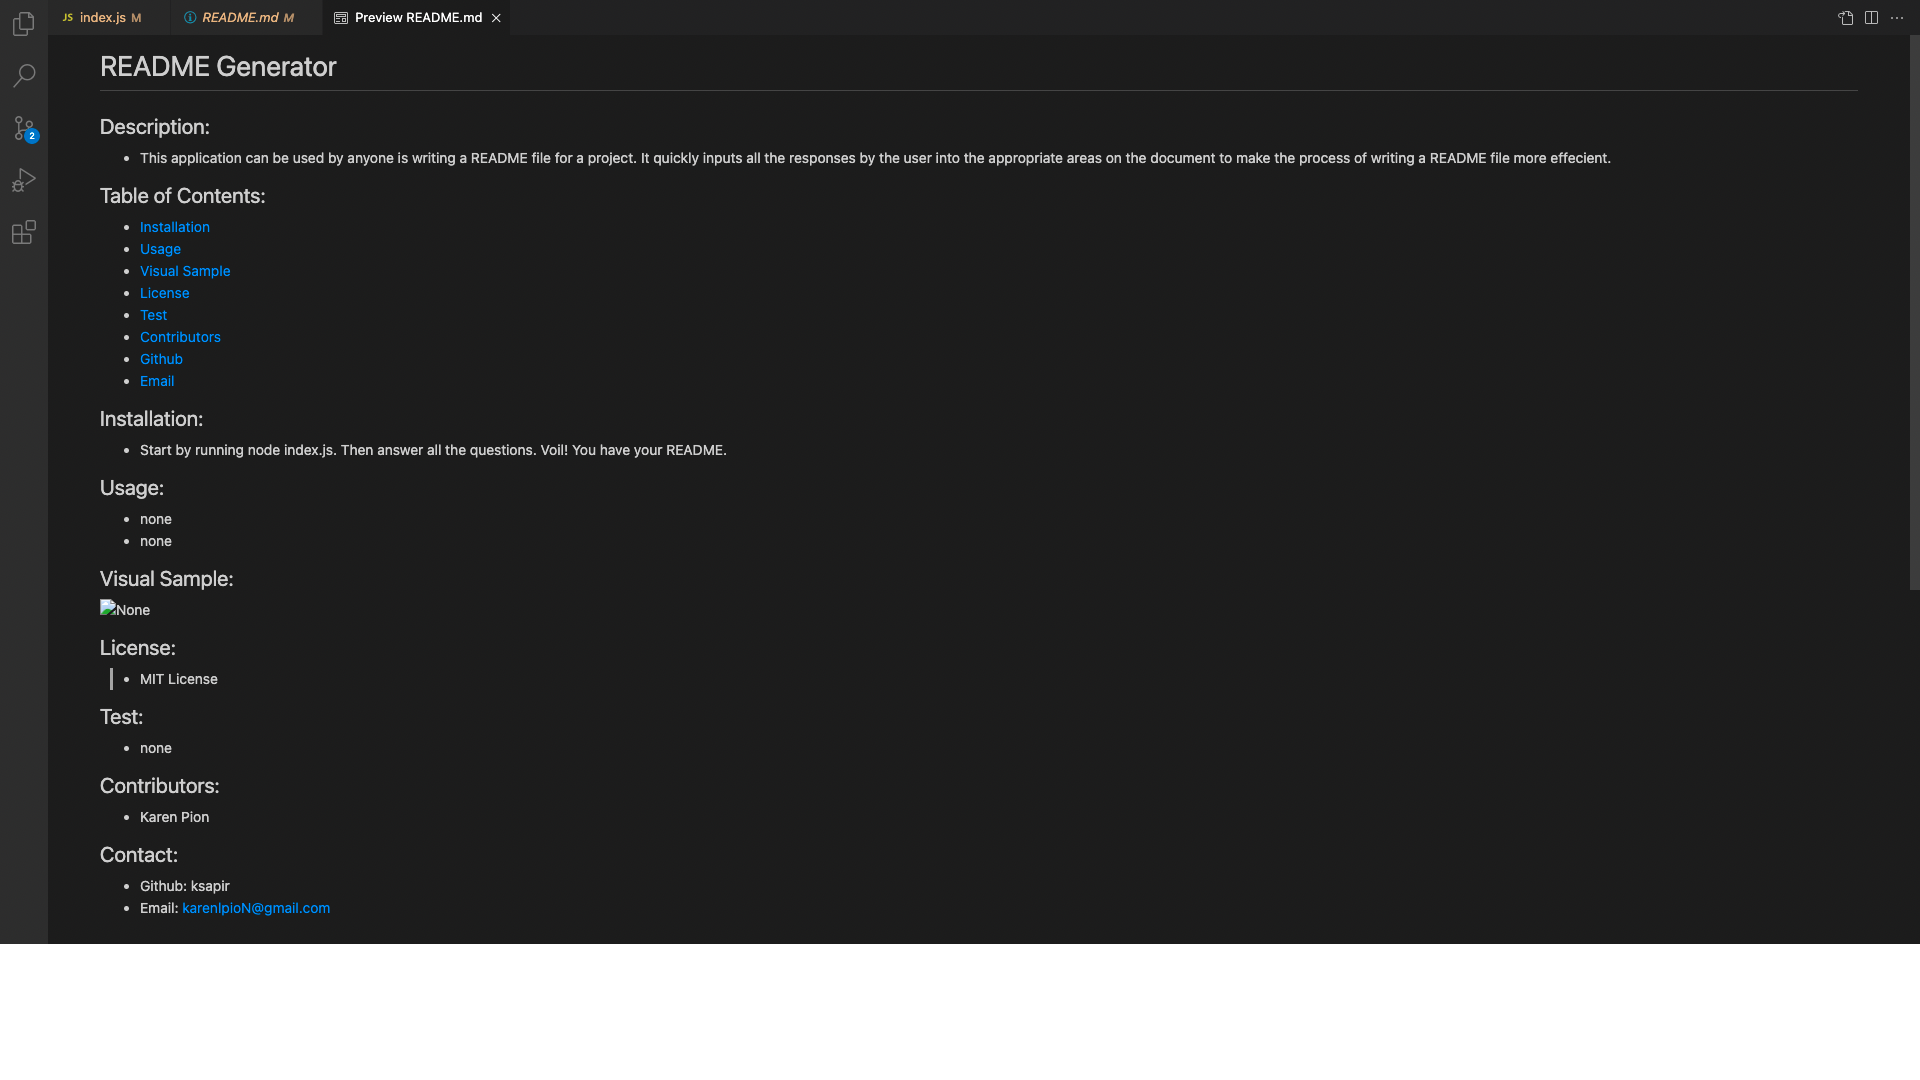
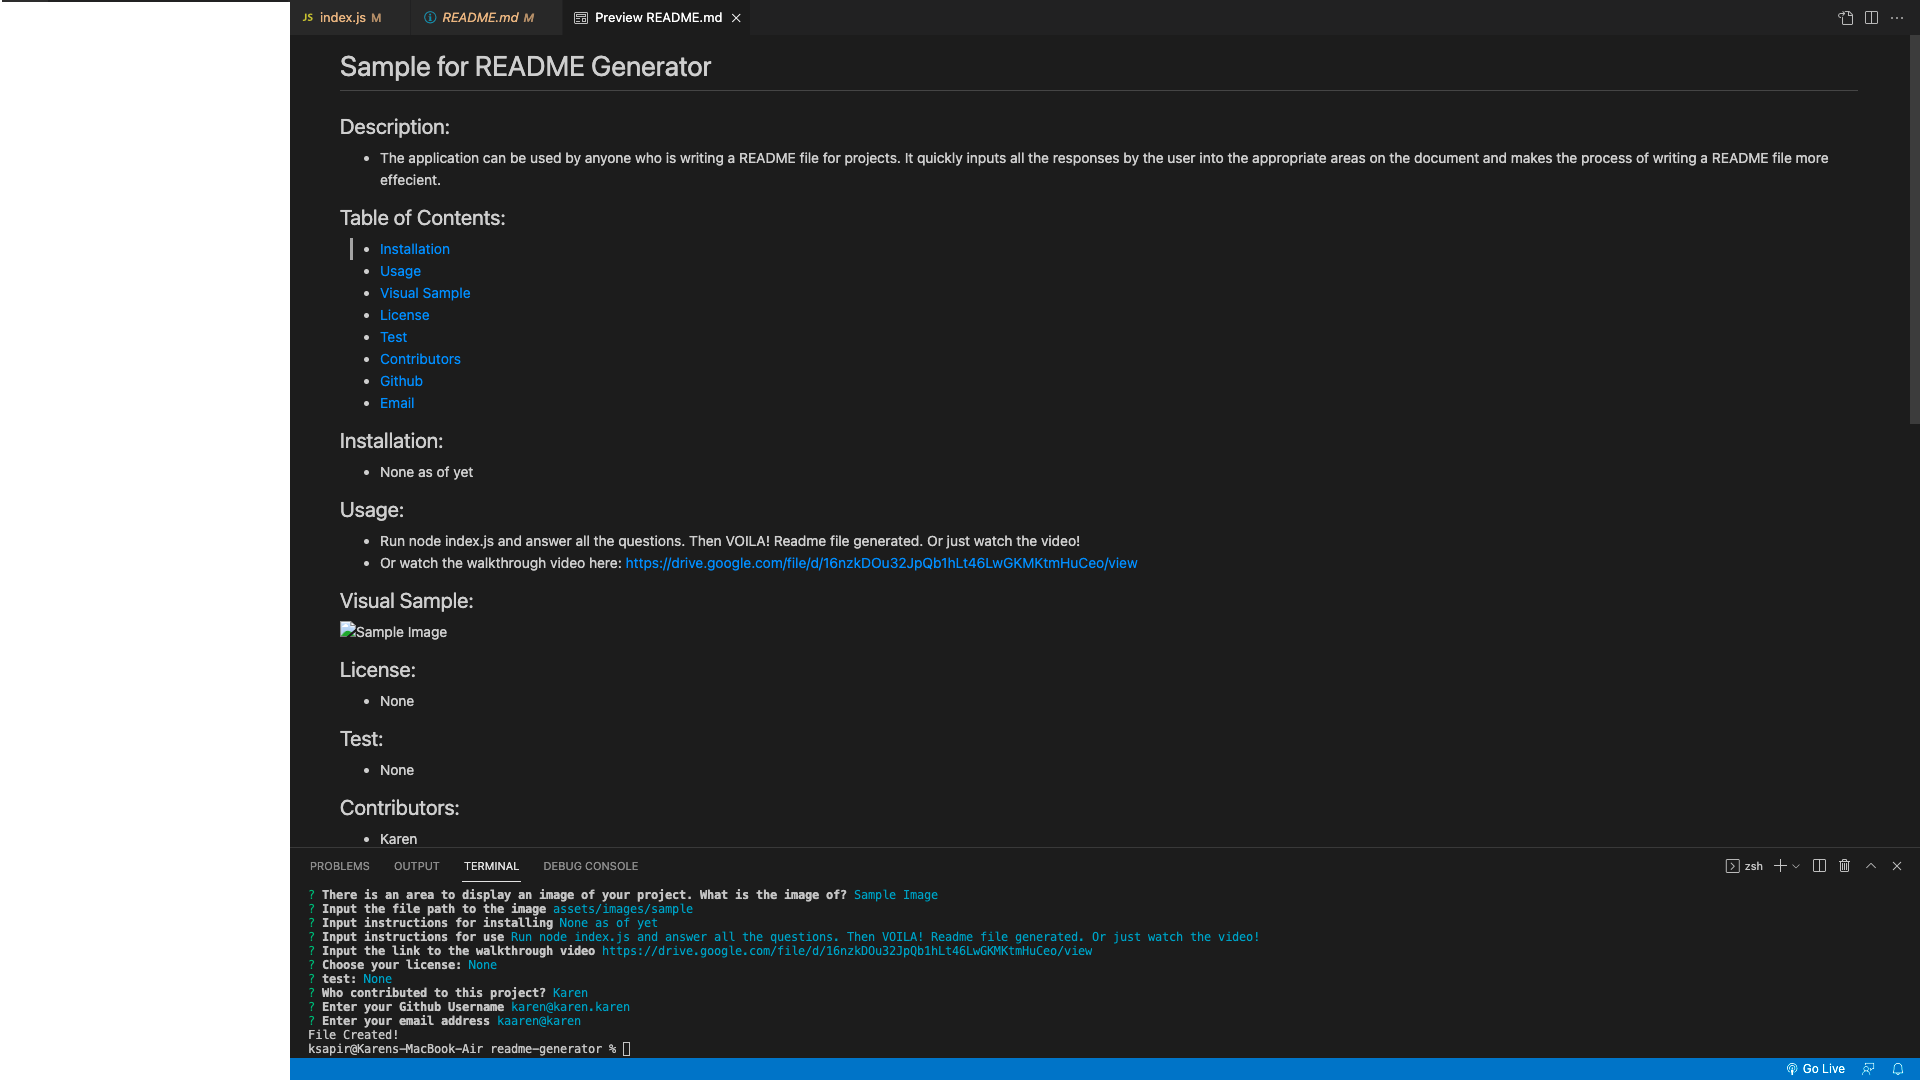
readme screenshot included

Changed region(s): [[0.0, 0.0, 1.0, 1.0], [0.9688, 0.3972, 1.0, 0.55], [0.1875, 0.7028, 0.25, 0.7944]]

diff --git a/index.js b/index.js
@@ -24,7 +24,8 @@ const generateReadme = (answers) =>
 
 ## Usage:
 - ${answers.usage}
-- ${answers.link}
+- Or watch the walkthrough video here:
+${answers.link}
 
 ## Visual Sample:
 ![${answers.picdescription}](${answers.filepath})

diff --git a/README.md b/README.md
@@ -1,7 +1,7 @@
 # README Generator
 
 ## Description:
-- This application can be used by anyone who is writing a README file for projects. It quickly inputs all the responses by the user into the appropriate areas on the document to make the process of writing a README file more effecient.
+- This application can be used by anyone who is writing a README file for their project. It quickly inputs all the responses by the user into the appropriate areas on the document to make the process of writing a README file more effecient. *This README file was generated by the README Generator!*
 
 ## Table of Contents:
 - [Installation](#installation)
@@ -14,24 +14,25 @@
 - [Email](#email)
 
 ## Installation:
-- None as of yet.
+- None yet.
 
 ## Usage:
-- Start by running node index.js in the terminal. Answer all the questions then.. VOILA! New README file for your project.
-- None as of yet.
+- Run node index.js, answer the prompts, then VOILA! Readme generated. Or just watch the video walkthrough!
+- Or watch the walkthrough video here:
+https://drive.google.com/file/d/16nzkDOu32JpQb1hLt46LwGKMKtmHuCeo/view
 
 ## Visual Sample:
-![None](None)
+![Readme Generator Visual](./assets/images/readme-generator.png)
 
 ## License:
 - None
 
 ## Test:
-- None
+- None yet
 
 ## Contributors:
-- Karen P
+- Karen Pion
 
 ## Contact:
-- Github: ksapir
-- Email: karen@gmail.com
+- Github: https://github.com/ksapir
+- Email: karenlpion@gmail.com
